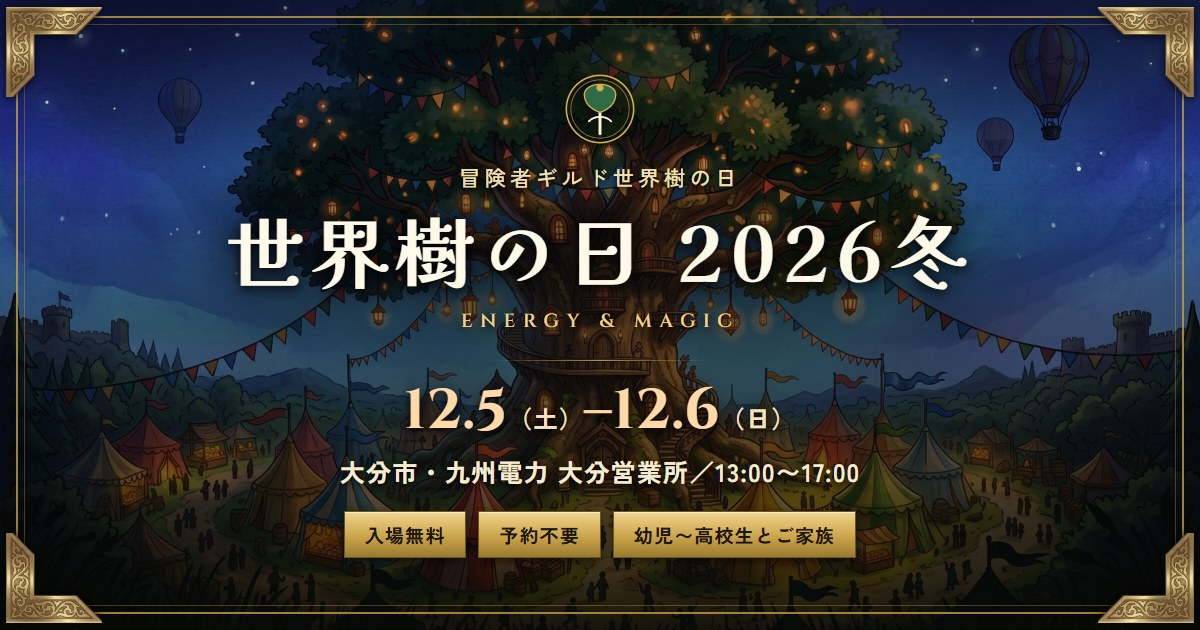
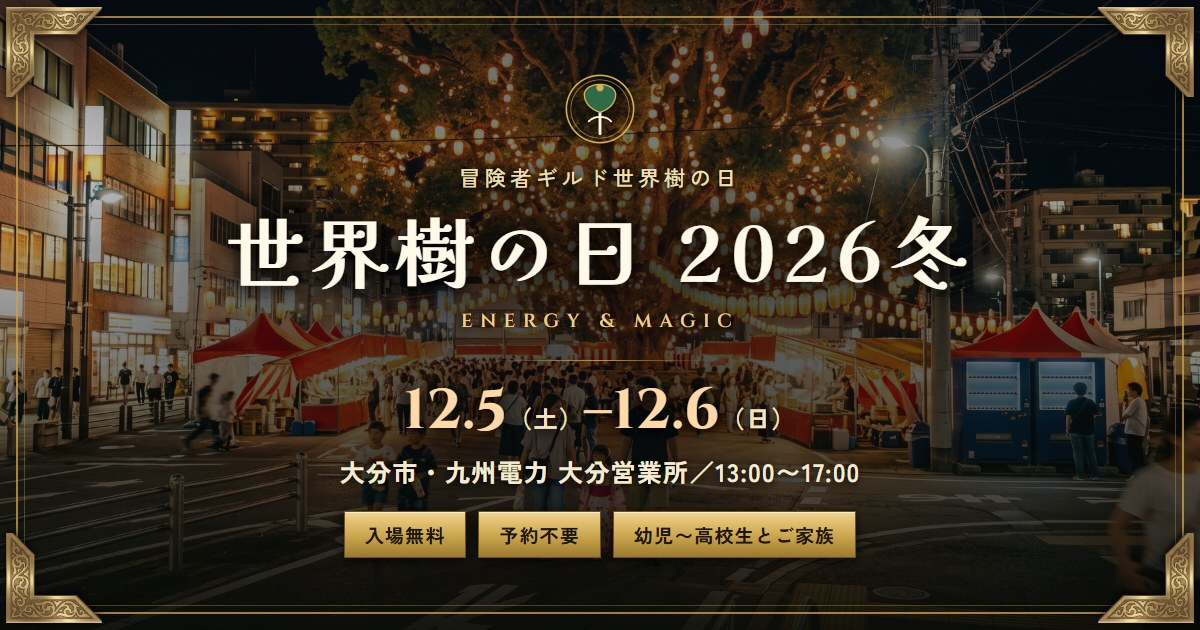
トップのキービジュアルを実写に差し替え
イラストの世界樹 → 実在する日本の街の夜祭りの写真（Gemini生成）。
アスファルト・白線・電柱・雑居ビル・自動販売機を写し込み、
「ファンタジーが現実の街で起きている」を狙った。OGP画像も同じ絵で作り直し。

diff --git a/event.html b/event.html
@@ -133,7 +133,7 @@
 
 <div class="top">
   <img class="bg" src="assets/img/hero.jpg" width="1800" height="1005" fetchpriority="high"
-       alt="夜。無数のランタンが灯る巨大な世界樹と、そのふもとに広がる色とりどりのテントの市">
+       alt="夜の街なかに立つ巨大な樹。枝いっぱいにランタンが灯り、ふもとにテントの屋台が並んで家族連れが歩いている">
   <div class="embers" id="embers" aria-hidden="true"></div>
   <div class="crestwrap">
     <svg class="crest" viewBox="0 0 66 66" aria-hidden="true">

diff --git a/index.html b/index.html
@@ -85,7 +85,7 @@
 
 <div class="top">
   <img class="bg" src="assets/img/hero.jpg" width="1800" height="1005" fetchpriority="high"
-       alt="夜。無数のランタンが灯る巨大な世界樹と、そのふもとに広がる色とりどりのテントの市">
+       alt="夜の街なかに立つ巨大な樹。枝いっぱいにランタンが灯り、ふもとにテントの屋台が並んで家族連れが歩いている">
   <div class="embers" id="embers" aria-hidden="true"></div>
   <div class="crestwrap">
     <svg class="crest" viewBox="0 0 66 66" aria-hidden="true">
